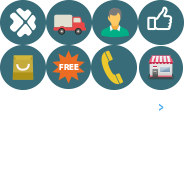
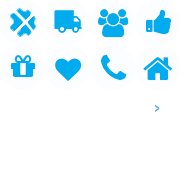
update WP

diff --git a/wp/wp-content/themes/blogkids/style.css b/wp/wp-content/themes/blogkids/style.css
@@ -564,7 +564,7 @@ footer {
     float: left;
     height: 45px;
     margin: 1px 12px 0 0;
-    width: 46px;
+    width: 45px;
 }
 footer .widget_nav_menu ul li a:hover {
     text-decoration: underline;
@@ -581,28 +581,28 @@ footer .widget_nav_menu ul li a:hover {
     background-position: 0 0;
 }
 #nav_menu-5 em {
-    background-position: -46px 0;
+    background-position: -45px 0;
 }
 #nav_menu-7 em {
-    background-position: -92px 0
+    background-position: -90px 0
 }
 #nav_menu-8 em {
-    background-position: -138px 0;
+    background-position: -135px 0;
 }
 #nav_menu-4 em {
     background-position: 0 -45px;
 }
 #nav_menu-6 em {
-    background-position: -46px -45px;
+    background-position: -45px -45px;
 }
 #text-3 em {
-    background-position: -91px -45px;
+    background-position: -90px -45px;
 }
 .diachi .hn em {
-    background-position: -137px -45px;
+    background-position: -135px -45px;
 }
 .diachi .hcm em {
-    background-position: -137px -45px;
+    background-position: -135px -45px;
 }
 .diachi h3:after {
     content: "\f101";
@@ -798,7 +798,7 @@ footer .widget_nav_menu ul li a {
     font-size: 18px;
     font-weight: normal;
     overflow: hidden;
-    padding: 15px 25px 15px 15px;
+    padding: 20px 25px 20px 15px;
     height: 42px;
     color: #818282;
 }

diff --git a/wp/wp-content/themes/blogkids/functions.php b/wp/wp-content/themes/blogkids/functions.php
@@ -402,4 +402,73 @@ add_action('admin_menu', array('SBC_Admin','add_config_page'));
 
 // Allow use of [sbc]
 add_shortcode('sbc', 'sbc_shortcode');
+
+# Func dùng cho các vòng lặp ...
+function repeat_block() {
+$cat =  get_the_category_list(', ') ;
+?>
+<article class="post-blog">
+    <?php 
+        $post_categories_first = get_the_category();
+        $first_categories = $post_categories_first[0]->name;
+        $link_first_categories = get_category_link( $post_categories_first[0]->term_id );
+        $thumb_image = get_post_thumbnail_id();
+        $thumb_img_url = wp_get_attachment_url( $thumb_image, 'widget-image' );
+        $image = aq_resize( $thumb_img_url, 870, 300, true, false);
+    ?>
+    <figure class="animated-overlay overlay-alt">
+        <img width="<?php echo $image[1]; ?>" height="<?php echo $image[2]; ?>" alt="pacific_rim_fight_scene-wallpaper" src="<?php echo $image[0]; ?>" itemprop="image">
+        <a class="link-to-post" href="http://192.168.1.203/zt_zone/designs-by-mother-nature-biomimetic-products/"></a>
+        <figcaption>
+        <div class="thumb-info thumb-info-alt">
+        <i>+</i>
+        </div>
+    </figcaption>
+</figure>
+    <a href="<?php the_permalink(); ?>"><h2><?php the_title(); ?></h2></a>
+    <div class="blog-item-details">
+        <ul class="litst-details">
+            <li class="col-md-1 col-sm-2 col-xs-4"><i class="fa fa-user"></i> <?php the_author(); ?></li>
+            <li class="col-md-2 col-sm-3 col-xs-4"><i class="fa fa-clock-o"></i> <?php the_time("d/m/Y") ?></li>
+            <li class="col-md-3 col-sm-3 col-xs-4"><i class="fa fa-bookmark"></i> <a href="<?php echo $link_first_categories ?>"><?php echo $first_categories ?></a></li>
+            <li class="col-md-1 col-sm-2 col-xs-4"><i class="fa fa-comment-o"></i> <a href="<?php the_permalink(); ?>/#comment">
+                <?php
+                    $url = get_permalink();
+                    $urlfb='http://api.ak.facebook.com/restserver.php?v=1.0&method=links.getStats&urls=' . urlencode($url) . '&format=json';
+                    $content=@file_get_contents($urlfb);
+                    if ($content) {
+                        $likeInfo=json_decode($content);
+                        echo '' . $likeInfo[0]->comment_count;
+                    } else {
+                        echo '0';
+                    }
+                ?>
+                </a>
+            </li>
+            <li class="col-md-1 col-sm-2 col-xs-4">
+                <?php if (function_exists( 'lip_love_it_link' )) {
+                        echo lip_love_it_link(get_the_ID(), '<i class="fa-heart-o"></i>', '<i class="fa-heart"></i>', false);
+            
+                    } ?>
+            </li>
+        </ul>
+        <?php the_excerpt(); ?>
+    </div>
+</article>
+<?php
+}
+
+//axjax
+
+add_shortcode('ajax_shortcode','ajax_paging');
+function ajax_paging() {
+$cat = (int) $_GET['cat'];
+$page = get_query_var('paged');
+$data = new WP_Query('cat='. $cat . '&paged='. $page);
+while ( $data->have_posts()): $data->the_post();
+repeat_block();
+endwhile;
+wp_pagenavi( array( 'query' => $data ) );
+wp_reset_query();
+}
 ?>

diff --git a/wp/wp-content/themes/blogkids/footer.php b/wp/wp-content/themes/blogkids/footer.php
@@ -66,47 +66,31 @@
 	<div class="copyright">
 		<div class="container">
 			<div class="row">
-				<div class="text-copyright col-lg-5 col-md-5 col-sm-12 col-xs-12">
+				<div class="text-copyright col-lg-7 col-md-5 col-sm-12 col-xs-12">
 					<p><?php echo $data['apl_footer_text']; ?></p>
 				</div>
 				<div class="email-copyright col-lg-3 col-md-3 col-sm-12 col-xs-12">
 					<p>Email: <a href="mailto:<?php echo $data['apl_footer_email']; ?>"><?php echo $data['apl_footer_email']; ?></a></p>
 				</div>
-				<div class="social col-lg-4 col-md-4 col-sm-12 col-xs-12">
+				<div class="social col-lg-2 col-md-4 col-sm-12 col-xs-12">
 					<ul>
 					<?php 
 					$url = get_template_directory_uri();
 					$facebook = $data['apl_facebook'];
-					$pinterest = $data['apl_pinterest'];
-					$flickr = $data['apl_flickr'];
 					$twitter = $data['apl_twitter'];
 					$youtube = $data['apl_youtube'];
-					$inlink = $data['apl_inlink'];
-					$skype = $data['apl_skype'];
 					$google = $data['apl_google'];
 					if (!empty($facebook)) {
 						echo "<li><a href='".$facebook."'><img src='". $url ."/images/facebook.png'></a></li>";
 					}
-					if (!empty($pinterest)) {
-						echo "<li><a href='".$pinterest."'><img src='". $url ."/images/pinterest.png'></a></li>";
-					}
-					if (!empty($flickr)) {
-						echo "<li><a href='".$flickr."'><img src='". $url ."/images/flickr.png'></a></li>";
-					}
-					if (!empty($twitter)) {
-						echo "<li><a href='".$twitter."'><img src='". $url ."/images/twitter.png'></a></li>";
+					if (!empty($google)) {
+						echo "<li><a href='".$google."'><img src='". $url ."/images/google.png'></a></li>";
 					}
 					if (!empty($youtube)) {
 						echo "<li><a href='".$youtube."'><img src='". $url ."/images/youtube.png'></a></li>";
 					}
-					if (!empty($inlink)) {
-						echo "<li><a href='".$inlink."'><img src='". $url ."/images/linkedin.png'></a></li>";
-					}
-					if (!empty($skype)) {
-						echo "<li><a href='".$skype."'><img src='". $url ."/images/skype.png'></a></li>";
-					}
-					if (!empty($google)) {
-						echo "<li><a href='".$google."'><img src='". $url ."/images/google.png'></a></li>";
+					if (!empty($twitter)) {
+						echo "<li><a href='".$twitter."'><img src='". $url ."/images/twitter.png'></a></li>";
 					}
 					?>
 					</ul>

diff --git a/wp/wp-content/themes/blogkids/header.php b/wp/wp-content/themes/blogkids/header.php
@@ -42,17 +42,11 @@
 	<div class="top-header">
 		<div class="container">
 			<div class="row">
-				<div class="social col-lg-3 col-md-4 col-xs-2">
+				<div class="social col-lg-1 col-md-2 col-xs-2">
 					<ul>
 					<?php 
 					$url = get_template_directory_uri();
 					$facebook = $data['apl_facebook'];
-					$pinterest = $data['apl_pinterest'];
-					$flickr = $data['apl_flickr'];
-					$twitter = $data['apl_twitter'];
-					$youtube = $data['apl_youtube'];
-					$inlink = $data['apl_inlink'];
-					$skype = $data['apl_skype'];
 					$google = $data['apl_google'];
 					if (!empty($facebook)) {
 						echo "<li><a href='".$facebook."'><img src='". $url ."/images/facebook.png'></a></li>";
@@ -60,30 +54,10 @@
 					if (!empty($google)) {
 						echo "<li><a href='".$google."'><img src='". $url ."/images/google.png'></a></li>";
 					}
-					if (!empty($youtube)) {
-						echo "<li><a href='".$youtube."'><img src='". $url ."/images/youtube.png'></a></li>";
-					}
-					if (!empty($pinterest)) {
-						echo "<li class='no-mobile'><a href='".$pinterest."'><img src='". $url ."/images/pinterest.png'></a></li>";
-					}
-					if (!empty($flickr)) {
-						echo "<li class='no-mobile'><a href='".$flickr."'><img src='". $url ."/images/flickr.png'></a></li>";
-					}
-					if (!empty($twitter)) {
-						echo "<li class='no-mobile'><a href='".$twitter."'><img src='". $url ."/images/twitter.png'></a></li>";
-					}
-
-					if (!empty($inlink)) {
-						echo "<li class='no-mobile'><a href='".$inlink."'><img src='". $url ."/images/linkedin.png'></a></li>";
-					}
-					if (!empty($skype)) {
-						echo "<li class='no-mobile'><a href='".$skype."'><img src='". $url ."/images/skype.png'></a></li>";
-					}
-
 					?>
 					</ul>
 				</div>
-				<nav class="page-menu col-lg-7 col-md-5 col-xs-7">
+				<nav class="page-menu col-lg-9 col-md-7 col-xs-7">
 					<?php
 					$defaults = array(
 						'theme_location'  => '',
@@ -124,7 +98,7 @@
 			<header>
 				<div class="main-header clearfix">
 					<div class="logo col-sm-4">
-						<a href="<?php echo get_option('home'); ?>">
+						<a href="http://kidsplaza.vn/">
 							<img src="<?php echo $data['apl_logo']; ?>">
 						</a>
 					</div>

diff --git a/wp/wp-content/themes/blogkids/single.php b/wp/wp-content/themes/blogkids/single.php
@@ -56,7 +56,6 @@
 							<a class="addthis_button_pinterest_pinit" pi:pinit:layout="horizontal"></a>
 							<a class="addthis_counter addthis_pill_style"></a>
 						</div>
-						<script type="text/javascript">var addthis_config = {"data_track_addressbar":true};</script>
 						<script type="text/javascript" src="//s7.addthis.com/js/300/addthis_widget.js#pubid=ra-533233bf3d1ea5a0"></script>
 						<!-- AddThis Button END -->
 					</div>

diff --git a/wp/wp-content/themes/blogkids/page-linhnhi.php b/wp/wp-content/themes/blogkids/page-linhnhi.php
@@ -1,0 +1,3 @@
+<?php while ( have_posts()): the_post(); ?>
+<?php the_content(); ?>
+<?php endwhile;?>
